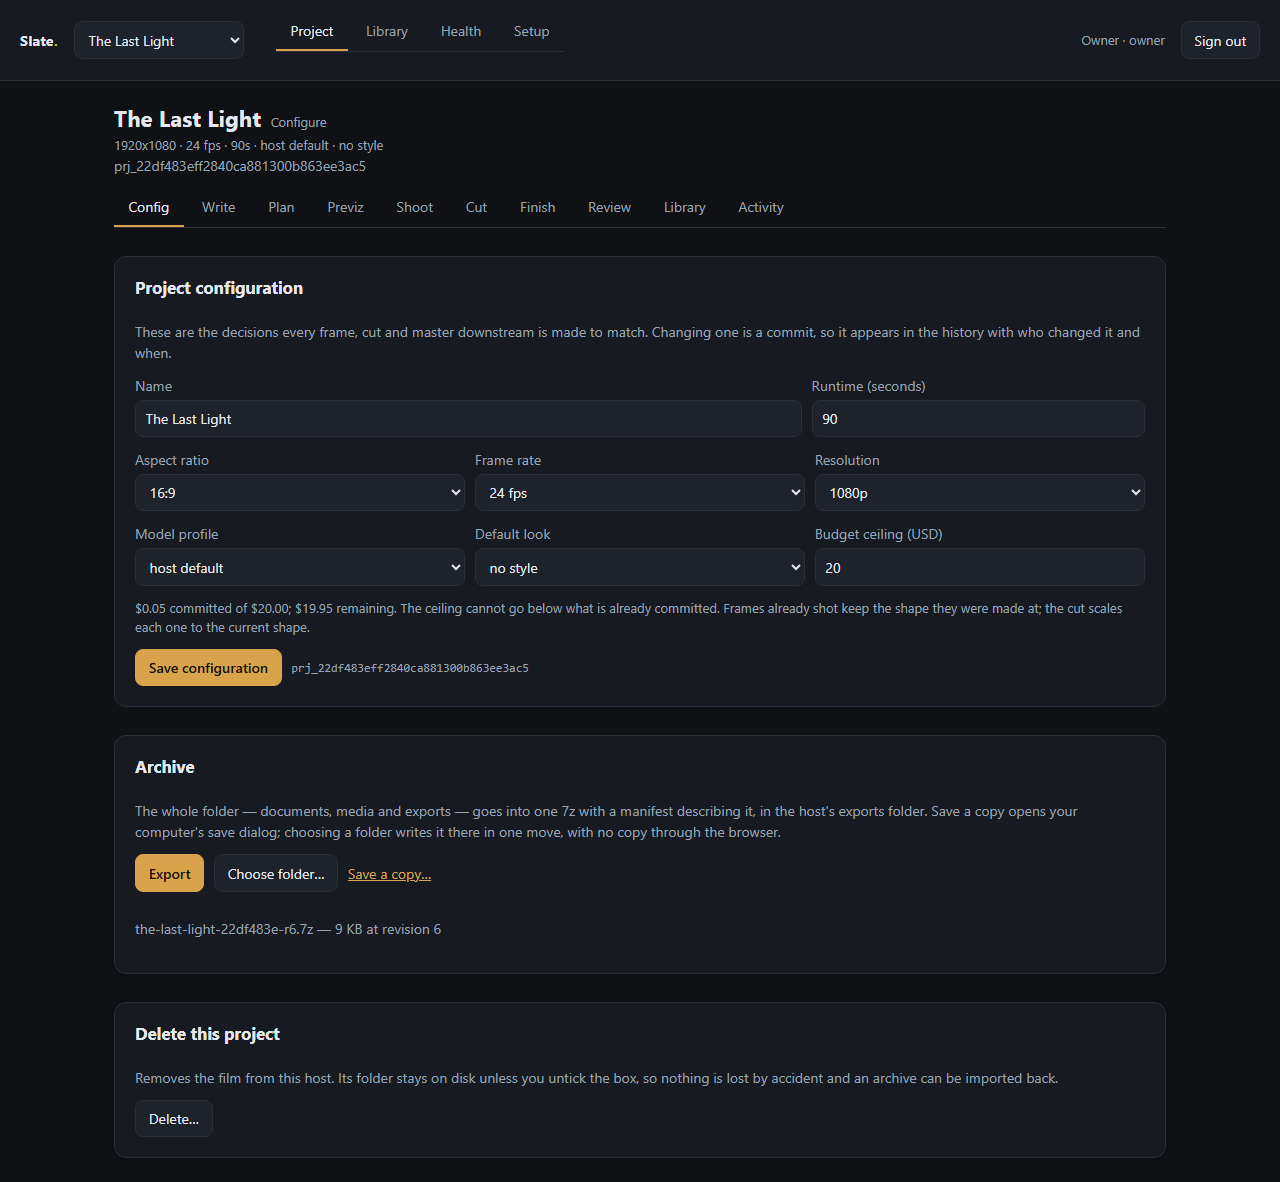
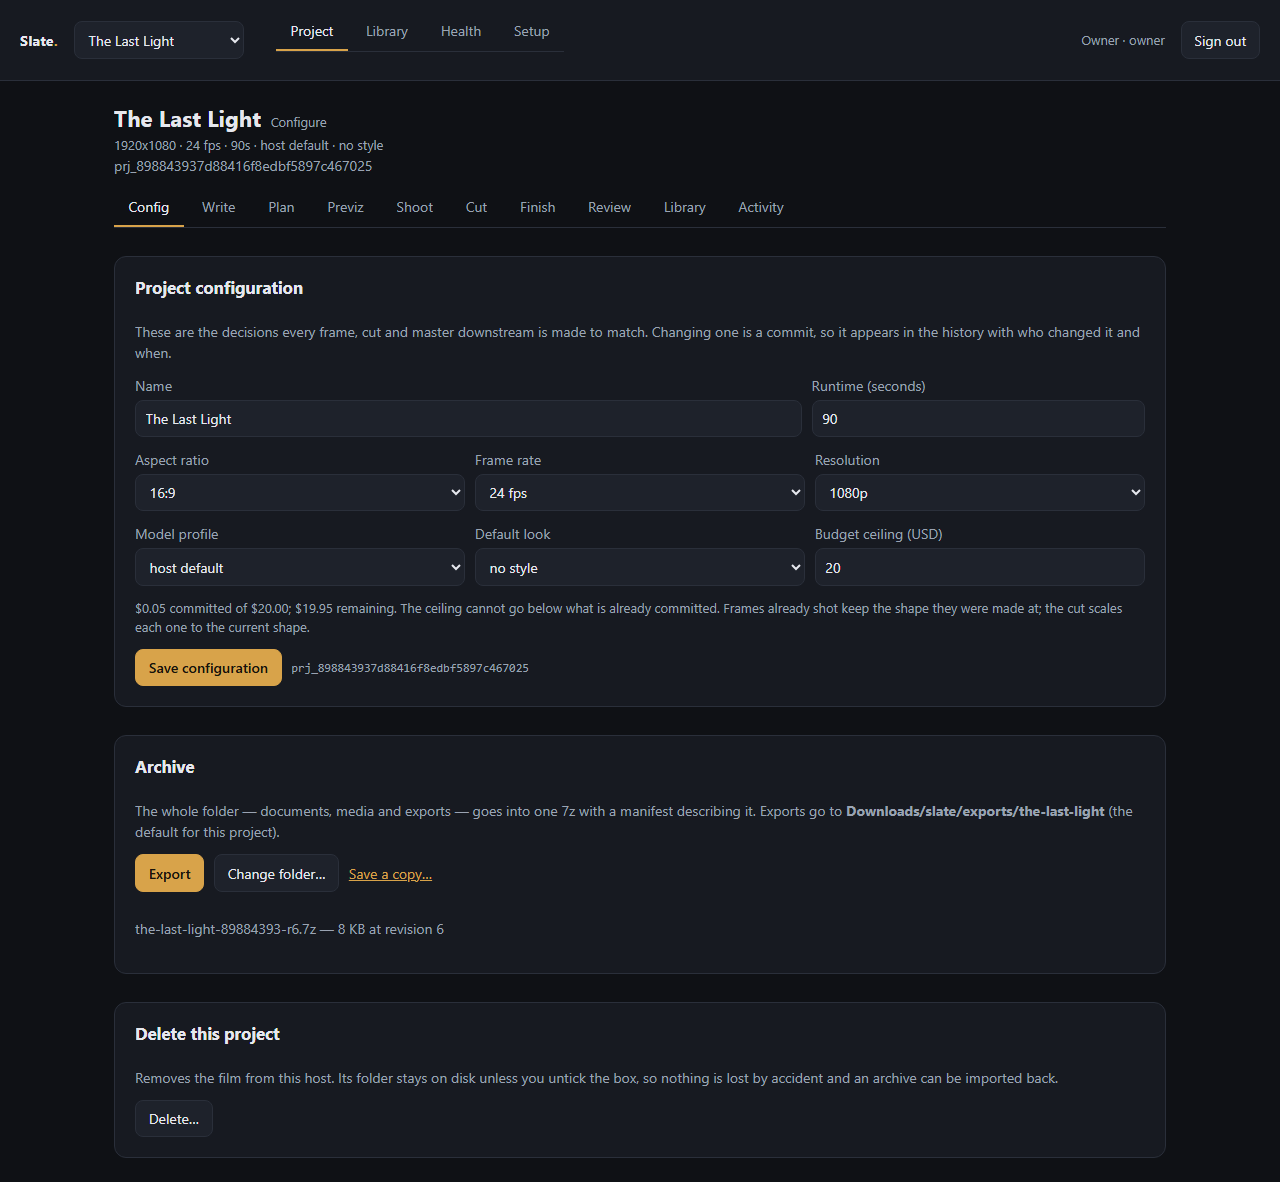
feat(ui): the archive card states the folder and lets it be changed
Why: a destination nobody can see is a destination nobody trusts. The card now says where the archive will go, offers Change folder… (the host's dialog) and Reset to default, and Export needs no decision. The chosen-folder token is stored per project, so the next export goes there without asking again.

How verified: pnpm verify is green; pnpm gate:18 exports from the card, takes a save-dialog copy and asserts the stated folder, with project-export.png committed.

Risk: the label is Downloads/... even when SLATE_DOWNLOADS_DIR moved the real folder, which is honest about the convention but not the absolute location.

diff --git a/scripts/gates.ts b/scripts/gates.ts
@@ -2462,7 +2462,14 @@ async function gate18(steps: string[]): Promise<void> {
   assert(exported.data.counts.assets > 0, "the manifest must count the assets the film has");
   assert(exported.data.counts.shots === 1, "the manifest must count the shots the film has");
 
-  const archive = join(gateHome, "exports", exported.data.archiveName);
+  const archive = join(
+    gateHome,
+    "downloads",
+    "slate",
+    "exports",
+    slugify("The Last Light"),
+    exported.data.archiveName,
+  );
   gate18Archive = archive;
   assert(existsSync(archive), `the archive must be on disk at ${exported.data.archiveName}`);
   steps.push("export: one archive on disk, hashed, with the film's contents counted");
@@ -2803,7 +2810,7 @@ async function browserFlow(steps: string[]): Promise<void> {
       steps.push("ui: the export offers a copy through the browser's save dialog, named after the archive");
 
       // A chosen folder is a token, not a path: the UI opens the host's dialog, and an unknown token is refused.
-      await page.waitForSelector("text=Choose folder…", { timeout: 20_000 });
+      await page.waitForSelector("text=Change folder…", { timeout: 20_000 });
       const unknownToken = await fetch(`${base}/p/${projectId}/api/op/project.export`, {
         method: "POST",
         headers: { "content-type": "application/json", cookie, "x-slate-csrf": csrf },
@@ -2814,7 +2821,14 @@ async function browserFlow(steps: string[]): Promise<void> {
         unknownToken.error?.code === "not_found",
         `the refusal must be not_found, got ${unknownToken.error?.code}`,
       );
-      steps.push("ui: the archive card offers Choose folder…, and an unknown token is refused");
+      const folderLine = await page.locator("text=Exports go to").first().textContent();
+      assert(
+        Boolean(folderLine?.includes("Downloads/slate/exports/the-last-light")),
+        `the card must state the default folder, got: ${folderLine}`,
+      );
+      steps.push(
+        "ui: the archive card states its folder, offers Change folder…, and refuses an unknown token",
+      );
       await page.screenshot({ path: join(artifactDir, "project-export.png"), fullPage: true });
 
       await instance.close();
@@ -2831,7 +2845,7 @@ async function browserFlow(steps: string[]): Promise<void> {
       const line = await page.locator('span[aria-label="References for fal"]').first().textContent();
       assert(
         Boolean(line?.includes("upload endpoint")),
-        `the card must say uploads go through an endpoint, got: ${line}`,
+        "the card must say uploads go through an endpoint, got: $line",
       );
 
       await page.click('button[aria-label="Test upload for fal"]');
@@ -2839,7 +2853,7 @@ async function browserFlow(steps: string[]): Promise<void> {
       const notice = await page.locator("text=Uploaded").first().textContent();
       assert(
         Boolean(notice?.includes("/gate-upload/file/reference.png")),
-        `the notice must show the url the provider returned, got: ${notice}`,
+        "the notice must show the url the provider returned, got: $notice",
       );
       await page.screenshot({ path: join(artifactDir, "reference-transport.png"), fullPage: true });
       steps.push("ui: the provider states how references travel, and a test upload proves the file API");
@@ -2895,7 +2909,7 @@ async function browserFlow(steps: string[]): Promise<void> {
       await page.selectOption('select[aria-label="Style sheet"]', { index: 1 });
       // The form says the pixels the chosen shape produces, before the project exists.
       const hint = await page.locator("text=at 25 fps").first().textContent();
-      assert(Boolean(hint?.includes("1080x1920")), `the form must state the frame size, got: ${hint}`);
+      assert(Boolean(hint?.includes("1080x1920")), "the form must state the frame size, got: $hint");
       await page.waitForTimeout(400);
       await page.screenshot({ path: join(artifactDir, "new-project.png"), fullPage: true });
       steps.push("ui: the create form asks for shape, rate, models and a look");
@@ -2903,7 +2917,7 @@ async function browserFlow(steps: string[]): Promise<void> {
       await page.click('button:has-text("Create project")');
       await page.waitForSelector('[aria-label="Project format"]', { timeout: 20_000 });
       const format = await page.locator('[aria-label="Project format"]').first().textContent();
-      assert(Boolean(format?.includes("1080x1920")), `the project must state its shape, got: ${format}`);
+      assert(Boolean(format?.includes("1080x1920")), "the project must state its shape, got: $format");
       assert(Boolean(format?.includes("25 fps")), "the project must state its rate");
       assert(Boolean(format?.includes("project style")), "the project must state that it runs on a style");
       await page.waitForTimeout(400);
@@ -3019,7 +3033,7 @@ async function browserFlow(steps: string[]): Promise<void> {
       await page.waitForSelector("text=Request preview", { timeout: 20_000 });
       assert(
         (await previewText()).includes("Bearer ••••"),
-        `the new preview must show the new scheme, got: ${await previewText()}`,
+        "the new preview must show the new scheme, got: $await previewText()",
       );
       await page.screenshot({ path: join(artifactDir, "preview-auth.png"), fullPage: true });
 
@@ -3037,7 +3051,7 @@ async function browserFlow(steps: string[]): Promise<void> {
       const storedEndpointName = await page.inputValue('input[aria-label="Endpoint name"]');
       assert(
         storedEndpointName === "TTS base",
-        `the endpoint form must open on the stored name, got ${storedEndpointName}`,
+        "the endpoint form must open on the stored name, got $storedEndpointName",
       );
       await page.fill('input[aria-label="Endpoint name"]', "TTS base 2");
       await page.screenshot({ path: join(artifactDir, "endpoint-edit.png"), fullPage: true });
@@ -3056,7 +3070,7 @@ async function browserFlow(steps: string[]): Promise<void> {
       const endpointNotice = await page.locator("text=TTS base 2 deleted").first().textContent();
       assert(
         Boolean(endpointNotice?.includes("1 profile binding cleared")),
-        `the notice must report the binding that went with it, got: ${endpointNotice}`,
+        "the notice must report the binding that went with it, got: $endpointNotice",
       );
       steps.push("ui: deleting a model clears its profile binding and leaves the host standing");
 
@@ -3066,7 +3080,7 @@ async function browserFlow(steps: string[]): Promise<void> {
       const prefilled = await page.inputValue('input[aria-label="Edit base URL"]');
       assert(
         prefilled === "https://fal-prod.run",
-        `the edit form must open on the stored host, got ${prefilled}`,
+        "the edit form must open on the stored host, got $prefilled",
       );
       await page.fill('input[aria-label="Edit provider name"]', "fal prod");
       await page.screenshot({ path: join(artifactDir, "setup-edit.png"), fullPage: true });
@@ -3081,7 +3095,7 @@ async function browserFlow(steps: string[]): Promise<void> {
       const warning = await page.locator("text=go for good").first().textContent();
       assert(
         Boolean(warning?.includes("1 endpoint") && warning?.includes("1 profile binding")),
-        `the confirmation must name what goes with the provider, got: ${warning}`,
+        "the confirmation must name what goes with the provider, got: $warning",
       );
       await page.screenshot({ path: join(artifactDir, "setup-delete.png"), fullPage: true });
       await page.click('button:has-text("Delete it")');
@@ -3089,7 +3103,7 @@ async function browserFlow(steps: string[]): Promise<void> {
       const notice = await page.locator("text=fal prod deleted").first().textContent();
       assert(
         Boolean(notice?.includes("1 endpoint") && notice?.includes("1 profile binding")),
-        `the notice must report what went with the provider, got: ${notice}`,
+        "the notice must report what went with the provider, got: $notice",
       );
       await page.waitForTimeout(400);
       await page.screenshot({ path: join(artifactDir, "setup-deleted.png"), fullPage: true });
@@ -3102,7 +3116,7 @@ async function browserFlow(steps: string[]): Promise<void> {
     if (gateNumber === 10) {
       const reviewContext = await instance.newContext();
       const reviewPage = await reviewContext.newPage();
-      await reviewPage.goto(`${base}${gate10Url}`);
+      await reviewPage.goto("$base$gate10Url");
       await reviewPage.waitForSelector("text=Shots", { timeout: 20_000 });
       await reviewPage.waitForSelector("video", { timeout: 20_000 });
       await reviewPage.screenshot({ path: join(artifactDir, "review-link.png"), fullPage: true });
@@ -3287,8 +3301,10 @@ async function browserFlow(steps: string[]): Promise<void> {
 
 async function main(): Promise<number> {
   await mkdir(artifactDir, { recursive: true });
-  const home = await mkdtemp(join(tmpdir(), `slate-gate${gateNumber}-`));
+  const home = await mkdtemp(join(tmpdir(), "slate-gate$gateNumber-"));
   gateHome = home;
+  // The archive default is the OS downloads folder; keep it inside the gate's own temp home.
+  process.env.SLATE_DOWNLOADS_DIR = join(home, "downloads");
   await ensureOwner(home, systemClock, "gate-password-123");
   // A reviewer and an editor exist on every gate host: the privilege boundary and collaboration are exercised end to end.
   await addUser(home, { username: "reviewer", password: "gate-viewer-123", role: "viewer" }, systemClock);
@@ -3309,8 +3325,8 @@ async function main(): Promise<number> {
       const body = (await c.req.json()) as { content_type?: unknown; file_size?: unknown };
       uploads.initiate.push({ contentType: body.content_type, fileSize: body.file_size });
       return c.json({
-        upload_url: `${base}/gate-upload/put`,
-        file_url: `${base}/gate-upload/file/reference.png`,
+        upload_url: "$base/gate-upload/put",
+        file_url: "$base/gate-upload/file/reference.png",
       });
     });
     app.put("/gate-upload/put", async (c) => {

diff --git a/web/src/pages/Config.tsx b/web/src/pages/Config.tsx
@@ -2,16 +2,18 @@ import { useCallback, useEffect, useState } from "react";
 import {
   ApiError,
   type BindingSetOption,
+  type ExportFolder,
   type LibraryStyle,
   type ProjectBudget,
   type ProjectSummary,
   archiveUrl,
+  exportFolder,
   exportProject,
-  exportProjectTo,
   listBindingSetOptions,
   listLibraryStyles,
   pickFolder,
   runOp,
+  setExportFolder,
   updateProject,
 } from "../api.js";
 
@@ -237,34 +239,36 @@ export function Config({ project, canEdit, canDelete, onChanged, onDeleted }: Pr
 }
 
 /**
- * Writing the film out. The default lands in the host's exports folder and can be copied anywhere with the save dialog;
- * a folder chosen with the host's own dialog is written in one move, which is what a large project needs and what the
- * browser cannot name for itself.
+ * Writing the film out. It goes to a folder the project remembers - by default the OS downloads folder under a Slate tree
+ * named after the film - and copies leave through the browser's own save dialog.
  */
 function Archive({ project, canDelete }: { project: ProjectSummary; canDelete: boolean }) {
-  const [chosen, setChosen] = useState<{ id: string; label: string } | null>(null);
-  const [fallback, setFallback] = useState(false);
-  const [to, setTo] = useState("");
-  const [hosted, setHosted] = useState(true);
+  const [folder, setFolder] = useState<ExportFolder | null>(null);
   const [archiveName, setArchiveName] = useState("");
   const [notice, setNotice] = useState<string | null>(null);
   const [error, setError] = useState<string | null>(null);
   const [busy, setBusy] = useState(false);
 
-  async function run(destination?: string, destinationId?: string) {
+  const refresh = useCallback(async () => {
+    try {
+      setFolder(await exportFolder(project.id));
+    } catch (caught) {
+      setError(message(caught));
+    }
+  }, [project.id]);
+
+  useEffect(() => {
+    void refresh();
+  }, [refresh]);
+
+  async function run() {
     setBusy(true);
     setError(null);
     try {
-      const archived = destinationId
-        ? await exportProjectTo(project.id, destinationId)
-        : await exportProject(project.id, destination || undefined);
-      const isHosted = !destination && !destinationId;
-      setHosted(isHosted);
+      const archived = await exportProject(project.id);
       setArchiveName(archived.archiveName);
       setNotice(
-        isHosted
-          ? `${archived.archiveName} — ${Math.round(archived.bytes / 1024)} KB at revision ${archived.revision}`
-          : `${archived.archiveName} — ${Math.round(archived.bytes / 1024)} KB, written to ${chosen?.label ?? "the folder you gave"} at revision ${archived.revision}`,
+        `${archived.archiveName} — ${Math.round(archived.bytes / 1024)} KB at revision ${archived.revision}`,
       );
     } catch (caught) {
       setError(message(caught));
@@ -277,17 +281,31 @@ function Archive({ project, canDelete }: { project: ProjectSummary; canDelete: b
   async function choose() {
     setBusy(true);
     setError(null);
+    setNotice("A folder dialog is opening on this computer's screen — it may be behind this window.");
     try {
       const picked = await pickFolder();
-      if (picked.cancelled || !picked.id || !picked.label) {
+      if (picked.cancelled || !picked.id) {
         setNotice("No folder was chosen.");
         return;
       }
-      setChosen({ id: picked.id, label: picked.label });
-      setNotice(`Folder chosen: ${picked.label}. Export to write the archive there.`);
+      const saved = await setExportFolder(project.id, picked.id);
+      setFolder(saved);
+      setNotice(`Exports now go to ${saved.label}.`);
     } catch (caught) {
-      // No desktop to draw a dialog on: offer the typed path rather than leaving no way to choose.
-      if (caught instanceof ApiError && caught.code === "capability_missing") setFallback(true);
+      setError(message(caught));
+    } finally {
+      setBusy(false);
+    }
+  }
+
+  async function reset() {
+    setBusy(true);
+    setError(null);
+    try {
+      const saved = await setExportFolder(project.id, null);
+      setFolder(saved);
+      setNotice(`Exports go back to ${saved.label}.`);
+    } catch (caught) {
       setError(message(caught));
     } finally {
       setBusy(false);
@@ -298,26 +316,31 @@ function Archive({ project, canDelete }: { project: ProjectSummary; canDelete: b
     <div className="card stack">
       <h2>Archive</h2>
       <p className="muted" style={{ margin: 0 }}>
-        The whole folder — documents, media and exports — goes into one 7z with a manifest describing it, in
-        the host&apos;s exports folder. Save a copy opens your computer&apos;s save dialog; choosing a folder
-        writes it there in one move, with no copy through the browser.
+        The whole folder — documents, media and exports — goes into one 7z with a manifest describing it.
+        {folder ? (
+          <>
+            {" "}
+            Exports go to <strong>{folder.label}</strong>
+            {folder.isDefault ? " (the default for this project)" : ""}.
+          </>
+        ) : null}
       </p>
       <div className="row">
         <button type="button" className="primary" onClick={() => void run()} disabled={busy || !canDelete}>
           {busy ? "Archiving…" : "Export"}
         </button>
         <button type="button" onClick={() => void choose()} disabled={busy || !canDelete}>
-          {busy ? "Working…" : "Choose folder…"}
+          Change folder…
         </button>
-        {chosen ? (
-          <button type="button" onClick={() => void run(undefined, chosen.id)} disabled={busy || !canDelete}>
-            Export to {chosen.label}
+        {folder && !folder.isDefault ? (
+          <button type="button" onClick={() => void reset()} disabled={busy || !canDelete}>
+            Reset to default
           </button>
         ) : null}
-        {hosted && archiveName ? (
+        {archiveName ? (
           <a
             className="primary"
-            href={archiveUrl(archiveName)}
+            href={archiveUrl(project.id, archiveName)}
             download={archiveName}
             aria-label="Save a copy of the archive"
           >
@@ -325,30 +348,6 @@ function Archive({ project, canDelete }: { project: ProjectSummary; canDelete: b
           </a>
         ) : null}
       </div>
-      {fallback ? (
-        <>
-          <div className="row">
-            <input
-              value={to}
-              onChange={(event) => setTo(event.target.value)}
-              placeholder="D:\backups\films"
-              aria-label="Export destination folder"
-              style={{ flex: 1 }}
-            />
-            <button
-              type="button"
-              onClick={() => void run(to.trim())}
-              disabled={busy || to.trim() === "" || !canDelete}
-            >
-              Export there
-            </button>
-          </div>
-          <p className="muted" style={{ margin: 0, fontSize: 12 }}>
-            This host has no desktop to show a folder dialog on. Type the folder the host can reach, or use
-            Save a copy.
-          </p>
-        </>
-      ) : null}
       {notice ? <p className="muted">{notice}</p> : null}
       {error ? <p className="error">{error}</p> : null}
     </div>

diff --git a/web/src/api.ts b/web/src/api.ts
@@ -309,6 +309,23 @@ export interface ExportedArchive {
   revision: number;
 }
 
+export interface ExportFolder {
+  label: string;
+  isDefault: boolean;
+}
+
+/** Where this project's archives go, as a label; the path stays on the host. */
+export function exportFolder(projectId: string): Promise<ExportFolder> {
+  return runOp<ExportFolder>(projectId, "project.export-folder", {}).then((result) => result.data);
+}
+
+/** Remembers a chosen folder for this project, or resets it to the downloads default. */
+export function setExportFolder(projectId: string, destinationId: string | null): Promise<ExportFolder> {
+  return runOp<ExportFolder>(projectId, "project.set-export-folder", { destinationId }).then(
+    (result) => result.data,
+  );
+}
+
 export interface FolderChoice {
   id: string | null;
   label: string | null;
@@ -363,8 +380,8 @@ export async function importProjectFile(file: File): Promise<ImportedProject> {
 }
 
 /** Where a copy of an archive is fetched from; the browser's save dialog decides where it lands. */
-export function archiveUrl(name: string): string {
-  return `/api/exports/${encodeURIComponent(name)}`;
+export function archiveUrl(projectId: string, name: string): string {
+  return `/p/${projectId}/api/archive/${encodeURIComponent(name)}`;
 }
 
 export interface ReferenceUploadResult {

diff --git a/CHANGELOG.md b/CHANGELOG.md
@@ -2,6 +2,16 @@
 
 User-visible changes per slice. Internal refactors are not listed.
 
+## Exports have a folder of their own
+
+- **Each project remembers where its archives go**, by default `Downloads/slate/exports/<project name>`. Config states
+  the folder, Change folder… points it elsewhere, Reset to default puts it back — and Export needs no choice at all.
+- **The folder is host state, not a document field**: the project file never carries an absolute path, so a film does
+  not move its backups when it moves machines. Results carry the label (`Downloads/slate/exports/the-last-light`), never
+  the path.
+- **The folder dialog now comes to the front.** It used to open behind the browser with no taskbar entry, wait for a
+  click nobody could give, and then be killed at sixty seconds — which read as "the button does nothing". It is now
+  owned by a topmost window, and a timeout or a real failure is reported with what to do instead.
 ## Health says how an agent drives Slate
 
 - **An "Agent access" card** on the health page names the three surfaces - MCP over stdio, the HTTP API, the CLI - and
